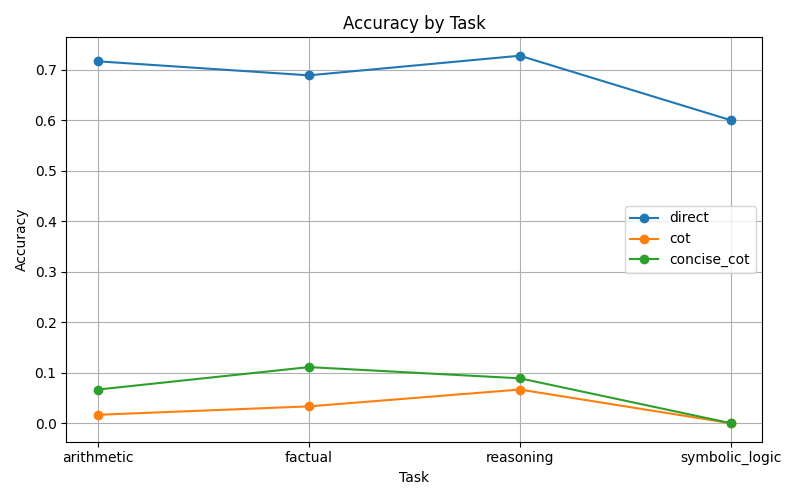
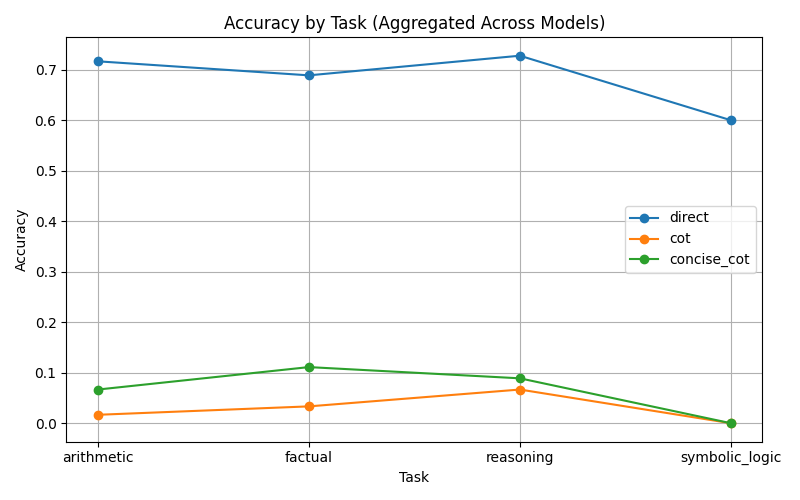
Add evaluation results and summary tables for model accuracy

Changed region(s): [[0.2812, 0.03, 0.75, 0.06]]

diff --git a/evaluate_results.py b/evaluate_results.py
@@ -8,8 +8,12 @@ from pathlib import Path
 # =========================
 INPUT_FILE = "results.csv"
 OUTPUT_FILE = "scored_results.csv"
+
 FIG_DIR = Path("figures")
+TABLE_DIR = Path("tables")
+
 FIG_DIR.mkdir(exist_ok=True)
+TABLE_DIR.mkdir(exist_ok=True)
 
 # =========================
 # NORMALIZATION
@@ -26,7 +30,7 @@ def normalize(text):
     if text.startswith("no"):
         return "no"
 
-    # extract numeric answers (ints / floats)
+    # numeric extraction (ints / floats)
     numbers = re.findall(r"-?\d+\.?\d*", text)
     if numbers:
         return numbers[0]
@@ -36,7 +40,7 @@ def normalize(text):
     return text.strip()
 
 # =========================
-# LOAD
+# LOAD DATA
 # =========================
 df = pd.read_csv(INPUT_FILE)
 
@@ -51,39 +55,52 @@ df.to_csv(OUTPUT_FILE, index=False)
 print(f"[OK] Scored results written to {OUTPUT_FILE}")
 
 # =========================
-# SUMMARY TABLES
+# SUMMARY TABLES → FILES
 # =========================
-print("\n=== Accuracy by Model × Prompt Type ===")
-summary = (
+
+# Accuracy by model × prompt type
+accuracy_model_prompt = (
     df.groupby(["model", "prompt_type"])["correct"]
-    .mean()
-    .reset_index()
-    .sort_values(["model", "prompt_type"])
+      .mean()
+      .reset_index()
+      .sort_values(["model", "prompt_type"])
 )
-print(summary)
 
-print("\n=== Accuracy by Model × Task ===")
-task_summary = (
+accuracy_model_prompt.to_csv(
+    TABLE_DIR / "accuracy_by_model_prompt.csv",
+    index=False
+)
+
+# Accuracy by model × task
+accuracy_model_task = (
     df.groupby(["model", "task"])["correct"]
-    .mean()
-    .reset_index()
+      .mean()
+      .reset_index()
 )
-print(task_summary)
 
-# =========================
-# CoT DELTA TABLE
-# =========================
+accuracy_model_task.to_csv(
+    TABLE_DIR / "accuracy_by_model_task.csv",
+    index=False
+)
+
+# CoT − Direct delta by model
 pivot = (
     df.groupby(["model", "prompt_type"])["correct"]
-    .mean()
-    .unstack()
+      .mean()
+      .unstack()
 )
 
-if "direct" in pivot.columns and "cot" in pivot.columns:
+if {"direct", "cot"}.issubset(pivot.columns):
     pivot["cot_minus_direct"] = pivot["cot"] - pivot["direct"]
 
-print("\n=== CoT − Direct Accuracy Delta ===")
-print(pivot[["cot_minus_direct"]])
+cot_delta = pivot[["cot_minus_direct"]].reset_index()
+
+cot_delta.to_csv(
+    TABLE_DIR / "cot_delta_by_model.csv",
+    index=False
+)
+
+print("[OK] Saved summary tables to /tables/")
 
 # =========================
 # PLOT 1: Accuracy vs Difficulty
@@ -92,24 +109,29 @@ difficulty_order = ["easy", "medium", "hard"]
 
 diff_df = (
     df.groupby(["prompt_type", "difficulty"])["correct"]
-    .mean()
-    .reset_index()
+      .mean()
+      .reset_index()
 )
 
-plt.figure(figsize=(7,5))
+plt.figure(figsize=(7, 5))
 for ptype in diff_df["prompt_type"].unique():
-    subset = diff_df[diff_df["prompt_type"] == ptype]
+    subset = diff_df[diff_df["prompt_type"] == ptype].copy()
     subset["difficulty"] = pd.Categorical(
         subset["difficulty"],
         categories=difficulty_order,
         ordered=True
     )
     subset = subset.sort_values("difficulty")
-    plt.plot(subset["difficulty"], subset["correct"], marker="o", label=ptype)
+    plt.plot(
+        subset["difficulty"],
+        subset["correct"],
+        marker="o",
+        label=ptype
+    )
 
 plt.xlabel("Difficulty")
 plt.ylabel("Accuracy")
-plt.title("Accuracy vs Difficulty")
+plt.title("Accuracy vs Difficulty (Aggregated Across Models)")
 plt.legend()
 plt.grid(True)
 plt.tight_layout()
@@ -119,22 +141,27 @@ plt.close()
 print("[OK] Saved figures/accuracy_vs_difficulty.png")
 
 # =========================
-# PLOT 2: Task-wise Accuracy (Direct vs CoT)
+# PLOT 2: Accuracy by Task
 # =========================
 task_plot = (
     df.groupby(["task", "prompt_type"])["correct"]
-    .mean()
-    .reset_index()
+      .mean()
+      .reset_index()
 )
 
-plt.figure(figsize=(8,5))
+plt.figure(figsize=(8, 5))
 for ptype in ["direct", "cot", "concise_cot"]:
     subset = task_plot[task_plot["prompt_type"] == ptype]
-    plt.plot(subset["task"], subset["correct"], marker="o", label=ptype)
+    plt.plot(
+        subset["task"],
+        subset["correct"],
+        marker="o",
+        label=ptype
+    )
 
 plt.xlabel("Task")
 plt.ylabel("Accuracy")
-plt.title("Accuracy by Task")
+plt.title("Accuracy by Task (Aggregated Across Models)")
 plt.legend()
 plt.grid(True)
 plt.tight_layout()
@@ -152,7 +179,7 @@ failures = df.pivot_table(
     values="correct"
 ).reset_index()
 
-if "direct" in failures.columns and "cot" in failures.columns:
+if {"direct", "cot"}.issubset(failures.columns):
     cot_failures = failures[
         (failures["direct"] == 1) &
         (failures["cot"] == 0)
@@ -167,7 +194,11 @@ if "direct" in failures.columns and "cot" in failures.columns:
         failure_examples["prompt_type"].isin(["direct", "cot"])
     ]
 
-    failure_examples.to_csv(FIG_DIR / "cot_failure_examples.csv", index=False)
+    failure_examples.to_csv(
+        FIG_DIR / "cot_failure_examples.csv",
+        index=False
+    )
+
     print("[OK] Saved figures/cot_failure_examples.csv")
 
 print("\n=== DONE: Evaluation Complete ===")
